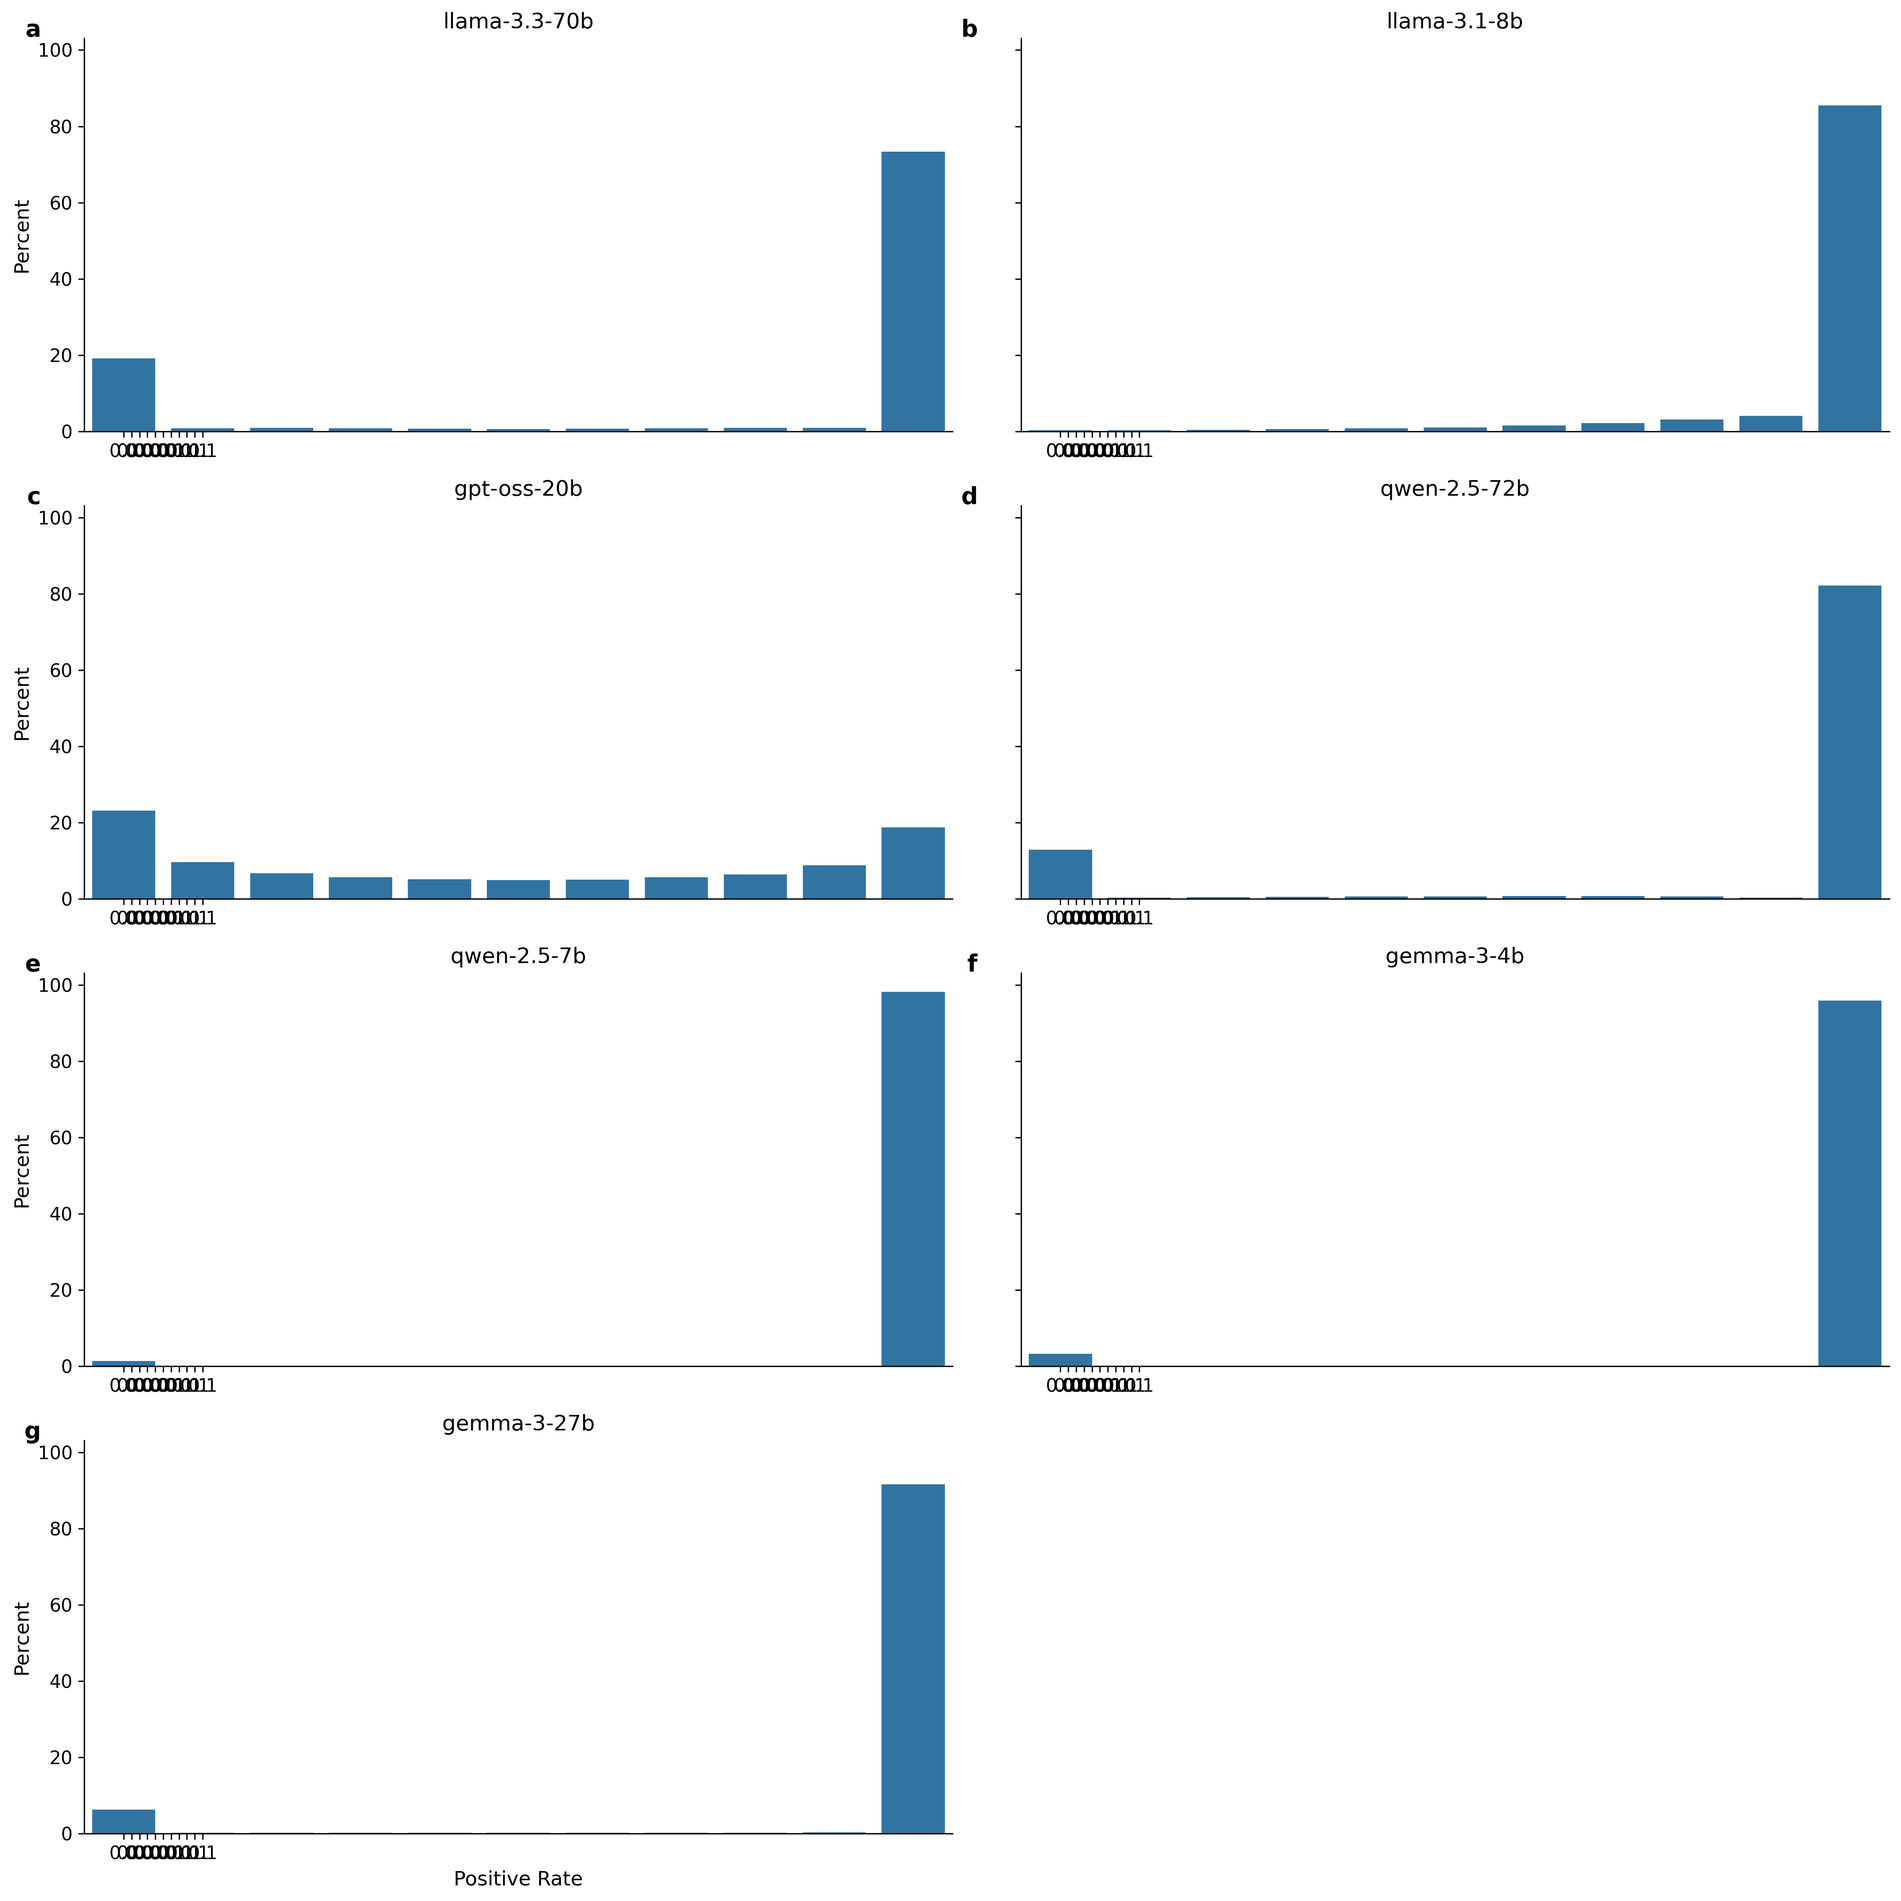
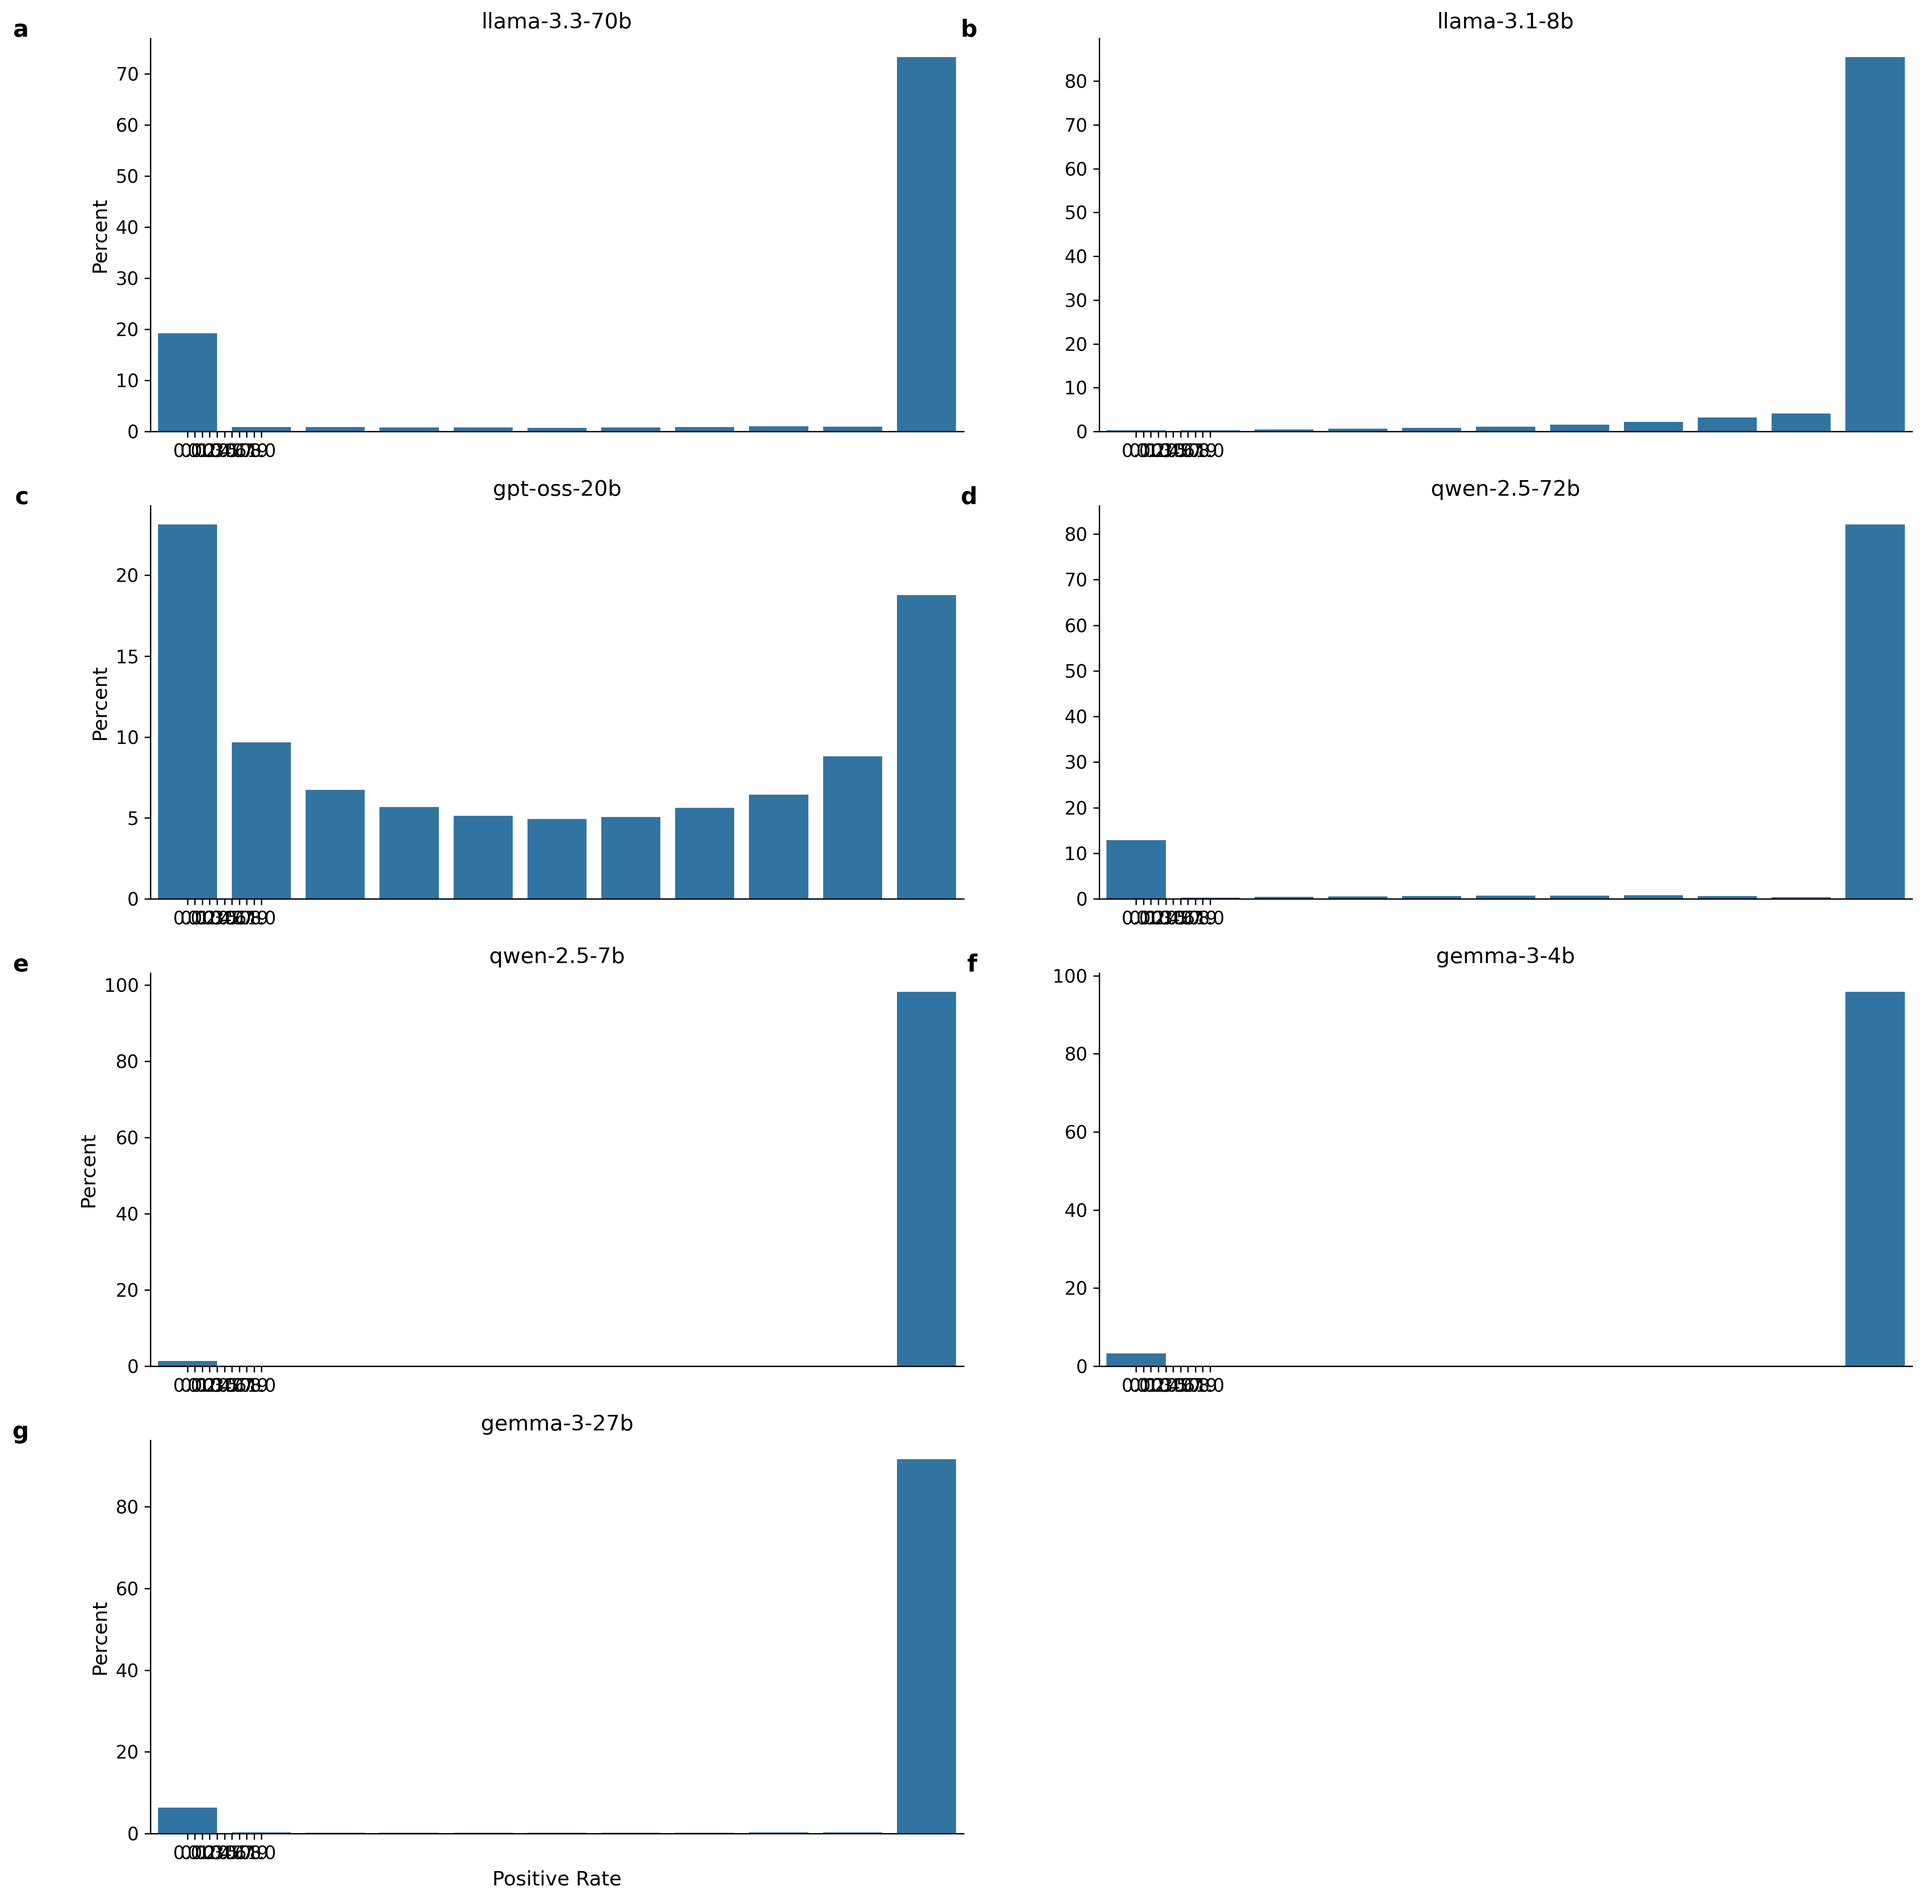
plot

diff --git a/src/results.py b/src/results.py
@@ -170,7 +170,7 @@ def plot_label_claim_distribution(grouped_dfs: dict[str, pd.DataFrame]):
     n_models = len(models)
     ncols = 2
     nrows = math.ceil(n_models / ncols)
-    fig, axs = plt.subplots(ncols=ncols, nrows=nrows, figsize=(16, 4 * nrows), sharey=True)
+    fig, axs = plt.subplots(ncols=ncols, nrows=nrows, figsize=(16, 4 * nrows))
     axs_flat = axs.ravel()
 
     x_ticks = [round(x * 0.1, 1) for x in range(11)]
@@ -188,9 +188,10 @@ def plot_label_claim_distribution(grouped_dfs: dict[str, pd.DataFrame]):
                     ax=ax)
 
         ax.set_xticks(x_ticks)
-
+        ax.set_xticklabels(x_ticks)
+        
         # Letters from a-g 
-        ax.text(-0.05, 1.05, f"{chr(97 + i)}", transform=ax.transAxes, fontsize=14, fontweight='bold', va='top', ha='right')
+        ax.text(-0.15, 1.05, f"{chr(97 + i)}", transform=ax.transAxes, fontsize=14, fontweight='bold', va='top', ha='right')
 
         ax.set_title(model_name, fontsize = 13)
 
